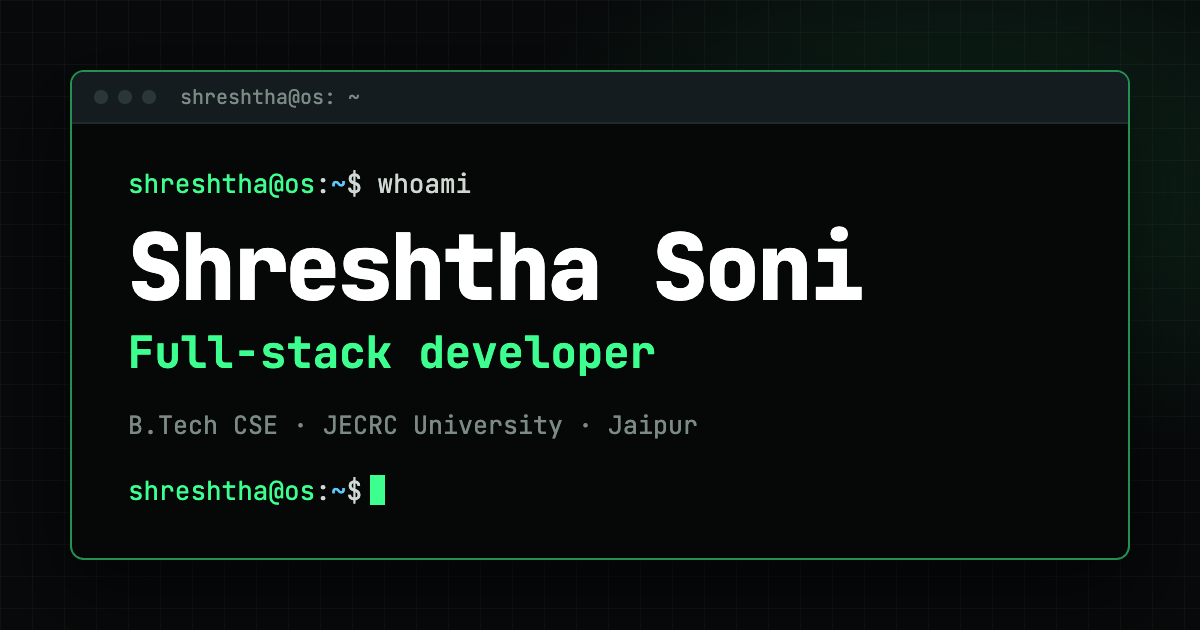
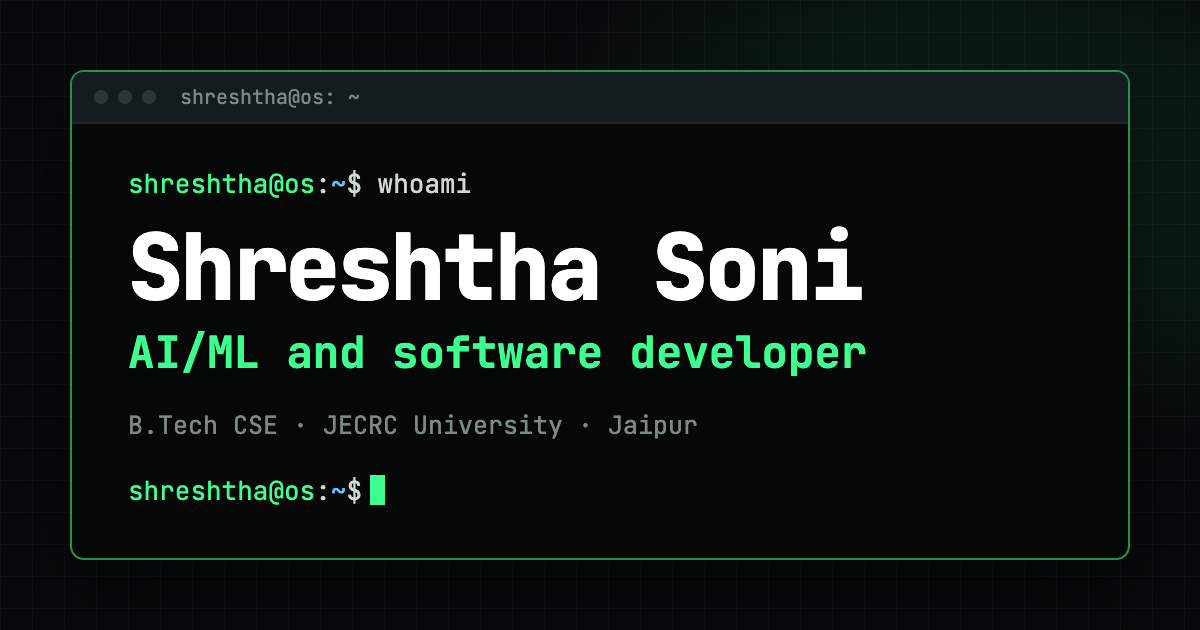
Title: AI/ML and software developer
Updated profile.title (site, /resume, GitHub window, desktop caption,
page title, meta description, share previews), the GitHub README blurb,
and regenerated the share image. Stopped lowercasing the title so
"AI/ML" keeps its capitals. The Tagshop.ai job title is unchanged.

Changed region(s): [[0.0925, 0.5127, 0.74, 0.6032]]

diff --git a/src/data/profile.ts b/src/data/profile.ts
@@ -53,7 +53,7 @@ export const profile = {
   initials: "SS",
   /** Profile photo in public/ (square; shown cropped to a circle). Set to "" to show the initials instead. */
   photo: "/avatar.jpg",
-  title: "Full-stack developer",
+  title: "AI/ML and software developer",
   city: "Jaipur",
   location: "Jaipur, India",
   line: "B.Tech CSE student at JECRC University, Jaipur. I build products and ship them to real users.",
@@ -141,7 +141,7 @@ export const profile = {
   /** Profile README shown in the GitHub app. **bold** is supported. */
   githubReadme: {
     heading: "Hi, I'm Shreshtha (Keshav)",
-    body: "B.Tech CSE student at JECRC University and full-stack developer. I shipped **Galla** to the Play Store, a **school ERP** that runs in production, and client sites like Micro Path Labs. Ex full-stack intern at **Tagshop.ai**.",
+    body: "B.Tech CSE student at JECRC University and software developer, now going deep into AI/ML. I shipped **Galla** to the Play Store, a **school ERP** that runs in production, and client sites like Micro Path Labs. Ex full-stack intern at **Tagshop.ai**.",
     currently: "Currently: DSA in C++ every day, and going deeper into machine learning.",
     chips: ["C++", "Java", "Python", "JavaScript", "React", "Next.js", "Node.js", "FastAPI", "SQL", "AWS", "Docker", "Git"]
   }

diff --git a/build/site-plugin.ts b/build/site-plugin.ts
@@ -11,7 +11,7 @@ import { renderResumePage } from "./resume-page.ts";
 const esc = (s: string) => s.replace(/[&<>"]/g, c => ({ "&": "&amp;", "<": "&lt;", ">": "&gt;", '"': "&quot;" })[c]!);
 
 const TITLE = `${profile.name} · ${profile.title} | Shreshtha OS`;
-const DESCRIPTION = `Portfolio of ${profile.name} (${profile.nick}), a ${profile.title.toLowerCase()} and B.Tech CSE student at ${profile.education.school}, ${profile.city}. Built as a tiny Linux desktop: boot it, open the terminal and type help.`;
+const DESCRIPTION = `Portfolio of ${profile.name} (${profile.nick}), ${profile.title}. B.Tech CSE student at ${profile.education.school}, ${profile.city}. Built as a tiny Linux desktop: boot it, open the terminal and type help.`;
 const OG_ALT = `${profile.name}, ${profile.title}: terminal-style card`;
 
 function seoTags(): string {

diff --git a/build/resume-page.ts b/build/resume-page.ts
@@ -9,7 +9,7 @@ const list = (items: string[]) => `<ul>${items.map(i => `<li>${esc(i)}</li>`).jo
 
 export function renderResumePage(): string {
   const p = profile, c = p.contact;
-  const description = `${p.name} (${p.nick}): ${p.title.toLowerCase()} and B.Tech CSE student at ${p.education.school}, ${p.city}. Experience, projects, skills and contact details.`;
+  const description = `${p.name} (${p.nick}), ${p.title}. B.Tech CSE student at ${p.education.school}, ${p.city}. Experience, projects, skills and contact details.`;
   const jsonLd = {
     "@context": "https://schema.org", "@type": "Person",
     name: p.name, alternateName: p.nick, jobTitle: p.title, email: `mailto:${c.email}`, telephone: c.phone, url: SITE_URL,

diff --git a/scripts/og-image.html b/scripts/og-image.html
@@ -20,7 +20,7 @@ h2{margin:0 0 22px;font-size:44px;font-weight:700;color:#3dff8f}
 <div class="body">
 <div><span class="p">shreshtha@os</span>:<span class="b">~</span>$ whoami</div>
 <h1>Shreshtha Soni</h1>
-<h2>Full-stack developer</h2>
+<h2>AI/ML and software developer</h2>
 <div class="m">B.Tech CSE · JECRC University · Jaipur</div>
 <div style="margin-top:26px"><span class="p">shreshtha@os</span>:<span class="b">~</span>$<span class="cur"></span></div>
 </div></div>

diff --git a/src/os/desktop.ts b/src/os/desktop.ts
@@ -37,5 +37,5 @@ export function initDesktop(): void {
   });
   $("#logo").textContent = LOGO.join("\n");
   $("#capgh").textContent = GITHUB_URL.replace("https://", "");
-  $("#capline").textContent = `${profile.name} · ${profile.title.toLowerCase()} · ${profile.city}`;
+  $("#capline").textContent = `${profile.name} · ${profile.title} · ${profile.city}`;
 }
